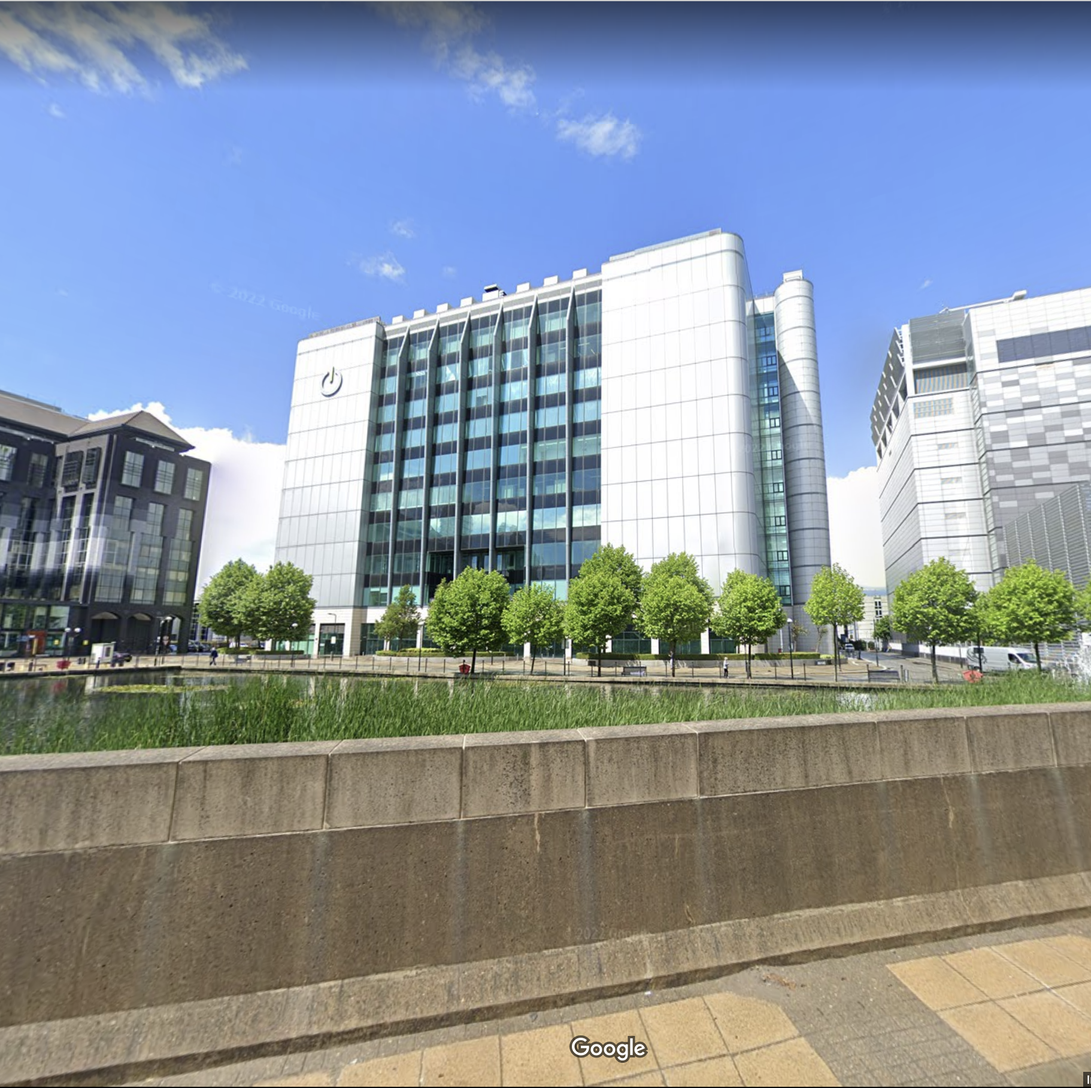
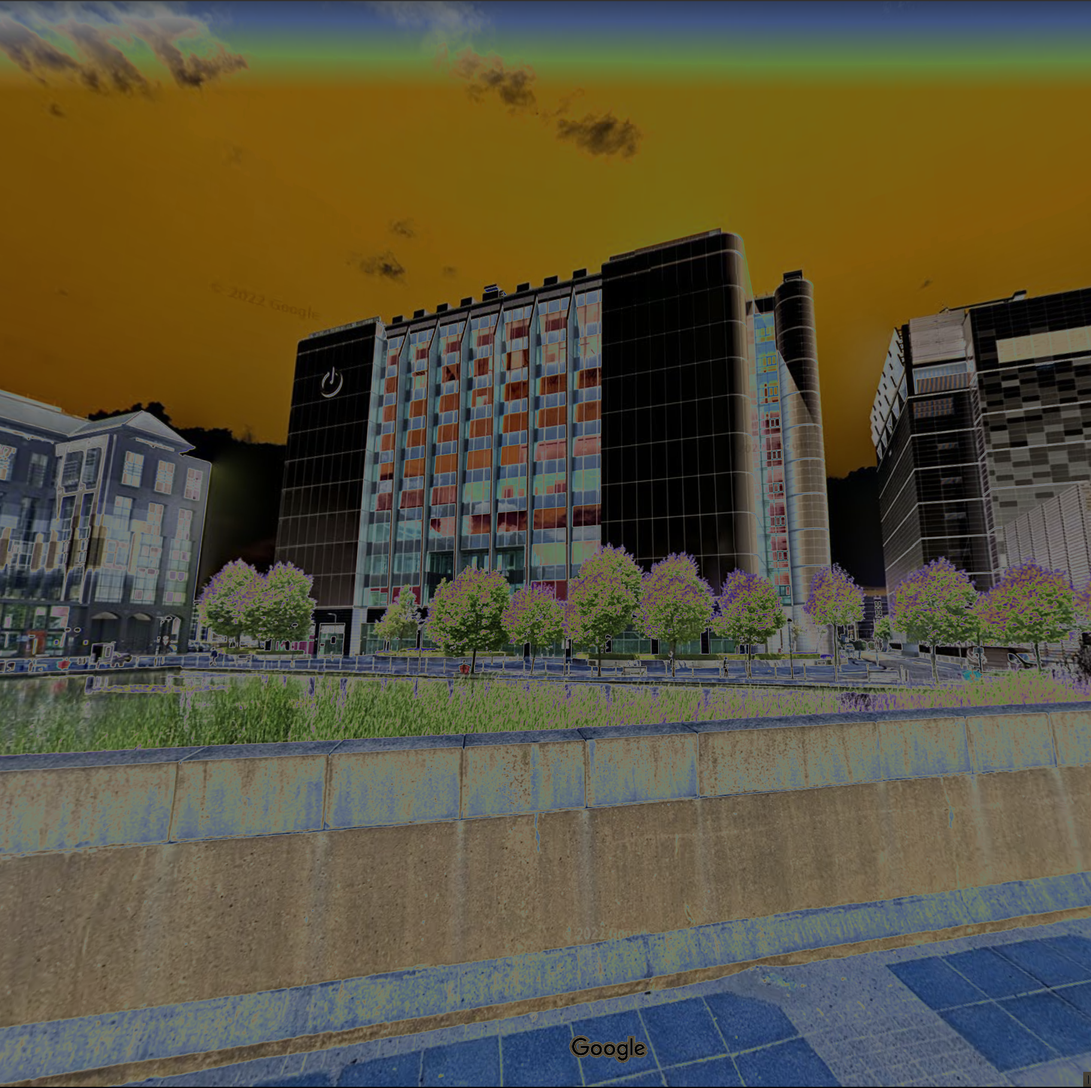
week4

diff --git a/Week3/batch_process.py b/Week3/batch_process.py
@@ -1,8 +1,26 @@
 from PIL import Image, ImageOps
 from pathlib import Path
 
-# if __name__ == "__main__":
-input_folder = Path("content/input_images")
+def convert_image_to_jpg(img):
+    # This function converts a png image to a jpg
+    new_img = Image.new("RGB", img.size, (255, 255, 255))
+    new_img.paste(img, mask=img.split()[3]) # 3 is the alpha channel
+    return new_img
 
-directories = list(input_folder.iterdir())
-print(directories)
+if __name__ == "__main__":
+    input_folder = Path("content/input_images")
+    output_folder = Path("content/output_images")
+    directories = list(input_folder.iterdir())
+    print(directories)
+    for count, item in enumerate(directories):
+        im1 = Image.open(item) 
+        try:
+            im2 = ImageOps.solarize(im1, threshold = 130) 
+        except:
+            im1 = convert_image_to_jpg(im1)
+            im2 = ImageOps.solarize(im1, threshold = 130)
+            
+        # im2.show()
+        output_path = "content/output_images/" + str(count) + '.png'
+        im2.save(output_path)
+        print("image_saved")

diff --git a/Week3/example_code.py b/Week3/example_code.py
@@ -1,22 +1,24 @@
 # Creating an empty array
-empty_array = []
+# empty_array = [None] * 100
 
-empty_array.append(100) # adding a value to that array
-print(empty_array)
+# empty_array.append(100) # adding a value to that array
+# print(empty_array)
 
 # empty_array[3] = 1 # this will give an error because the third position does not exist
 # print(empty_array)
 
-empty_array = empty_array * 3 # making the array longer
-print(empty_array)
+# empty_array = empty_array * 3 # making the array longer
+# print(empty_array)
 
-genres = ["rock", "hip hop", "dance"]
-print(genres[0])
+genres = ["rock", "hip hop", "dance", "classical"]
+print(genres[2])
 genres[2] = "classical"
 print(genres[2])
 
-del genres[0]
-print(genres)
-genres.append("heavy metal")
+# del genres[0]
+# print(genres)
+# genres.append("heavy metal")
+print("the array before removing classical is: ", genres)
 genres.remove("classical")
-print(genres)
+print("the array after removing classical: ", genres )
+# print(genres)
